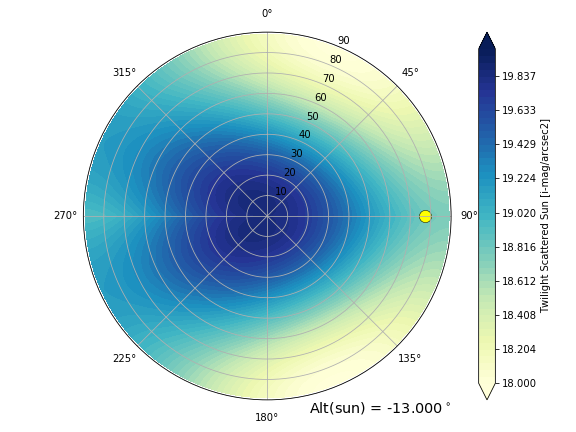
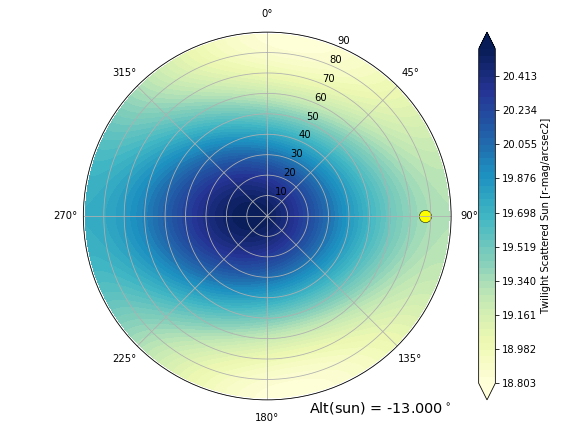
Update documentation plots

diff --git a/docs/config.rst b/docs/config.rst
@@ -226,8 +226,7 @@ the dependence of scattering on the observing conditions, use the plot
 and::
 
     specsim.atmosphere.plot_twilight_brightness(
-            sun_altitude=-13*u.deg, sun_azimuth=90*u.deg,
-            imax=20., imin=18.0)
+            sun_altitude=-13*u.deg, sun_azimuth=90*u.deg)
 
 .. image:: _static/desi_twilight_polar.png
     :alt: DESI twlight brightness
